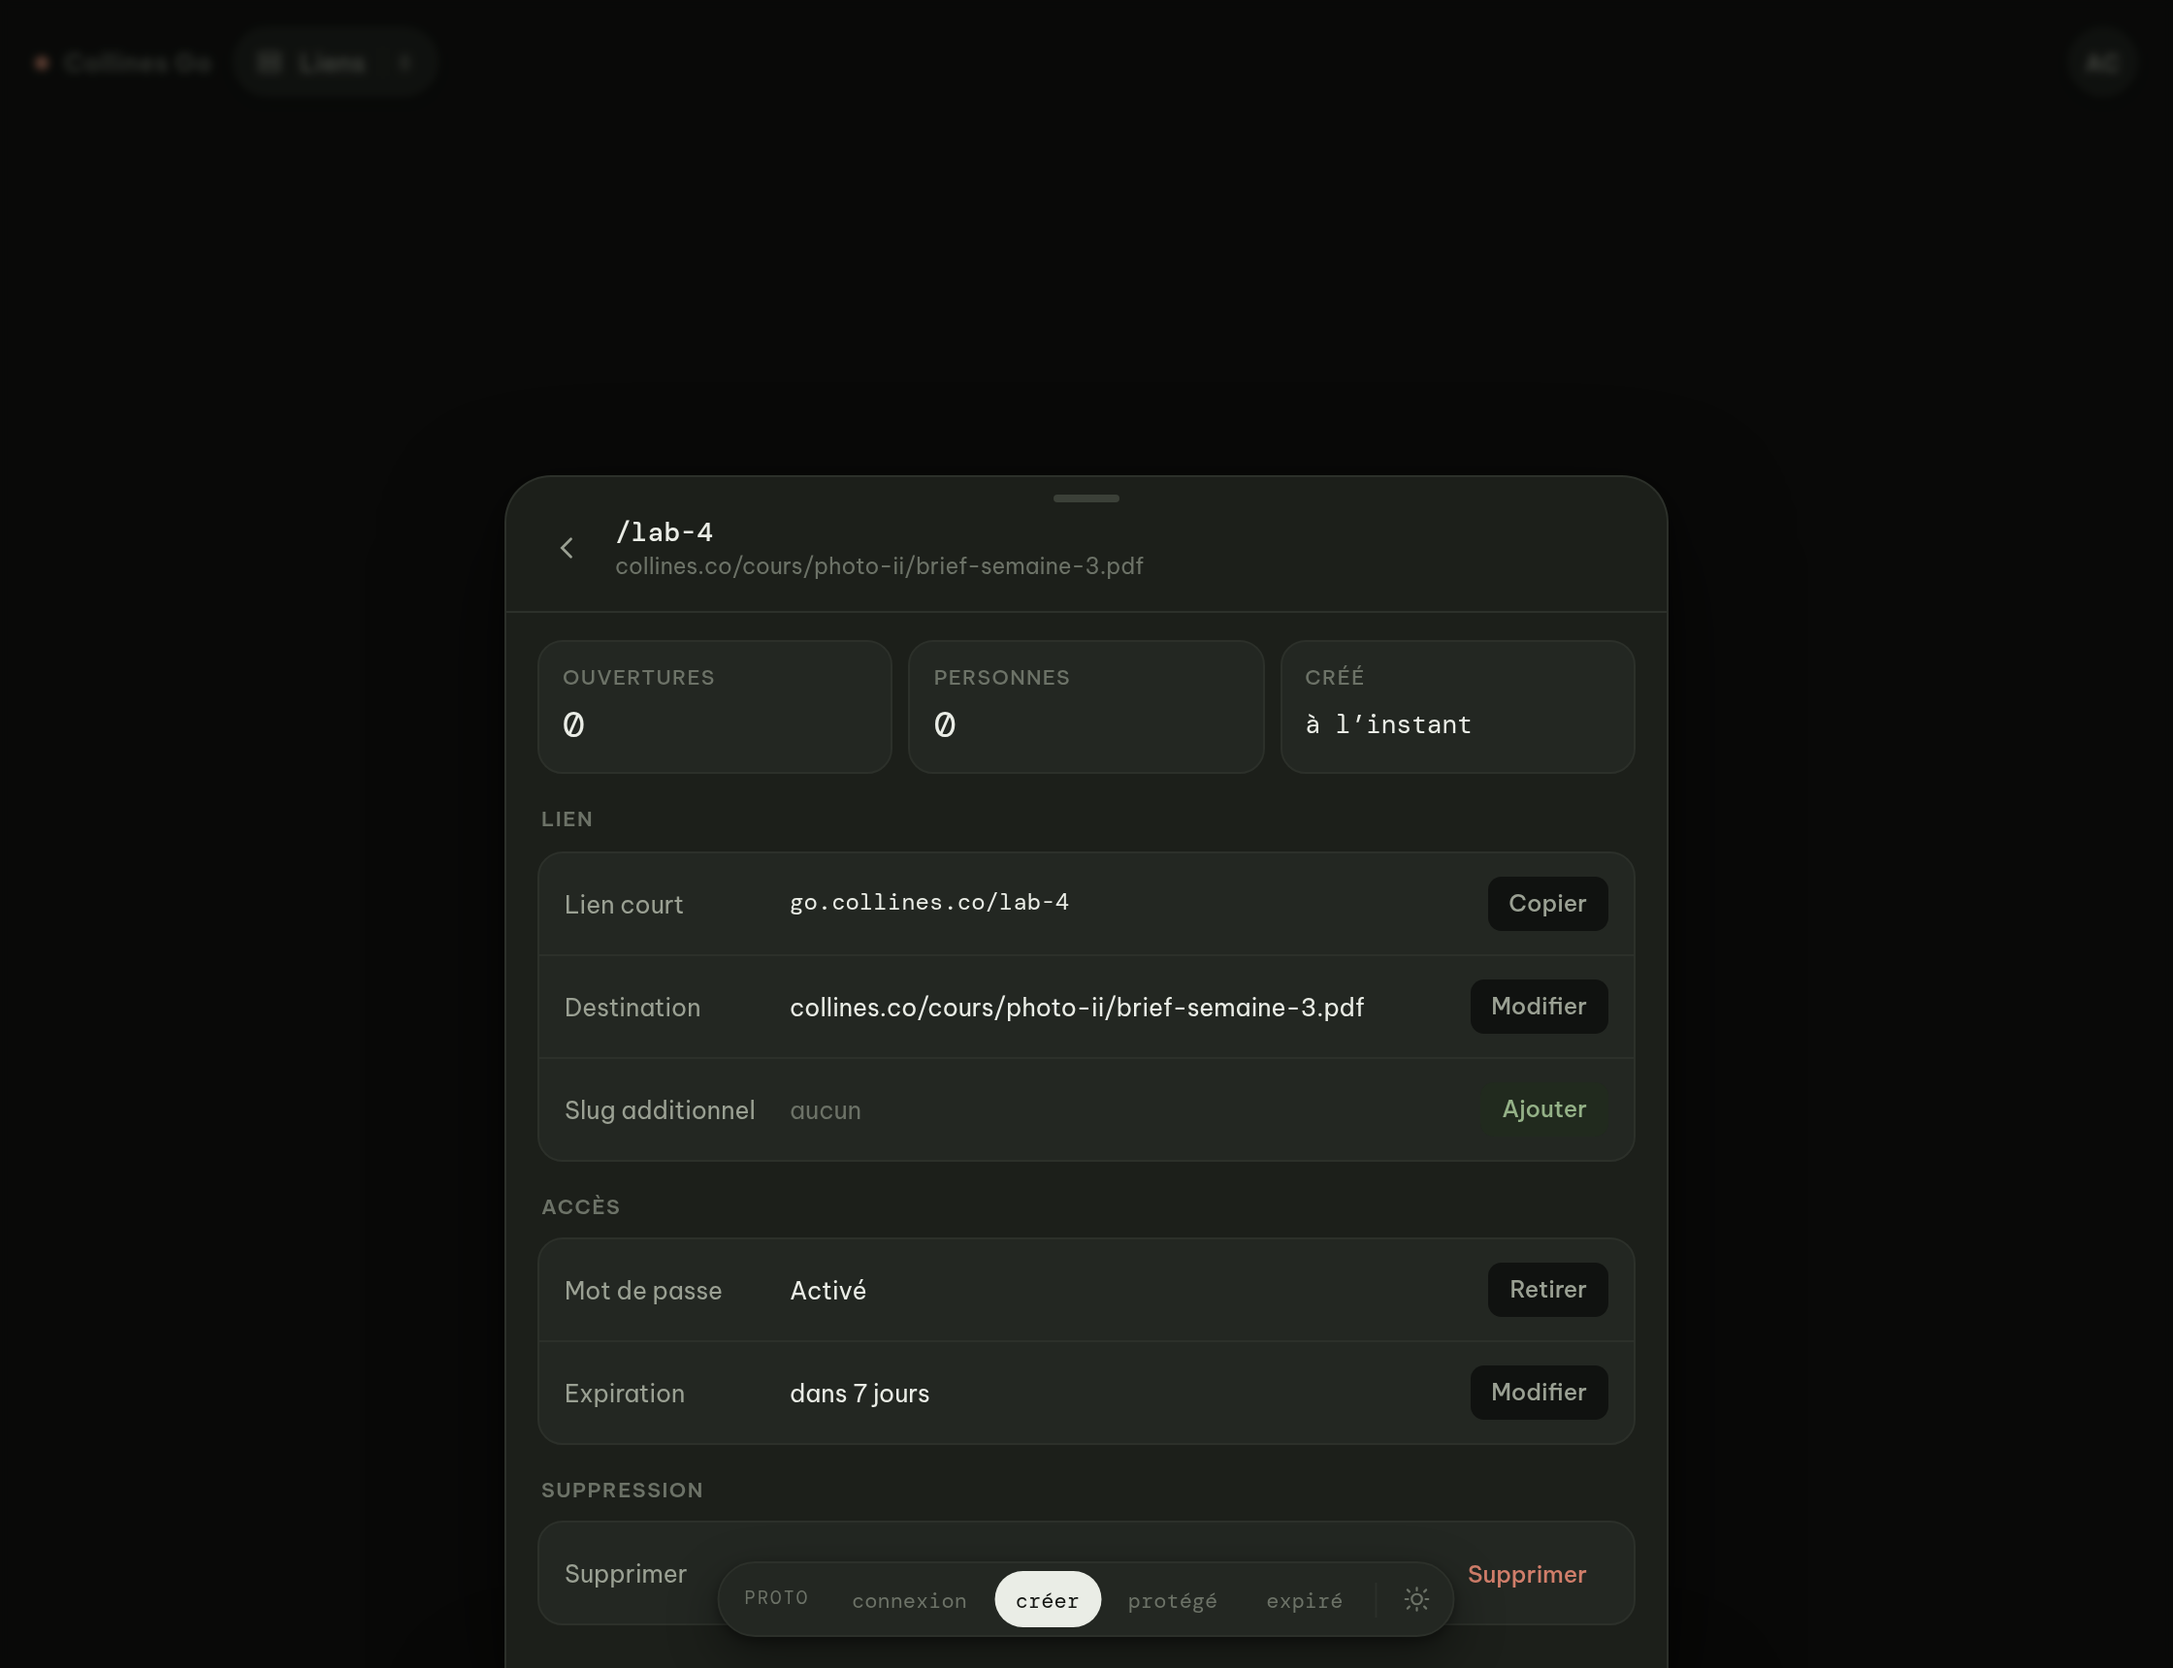
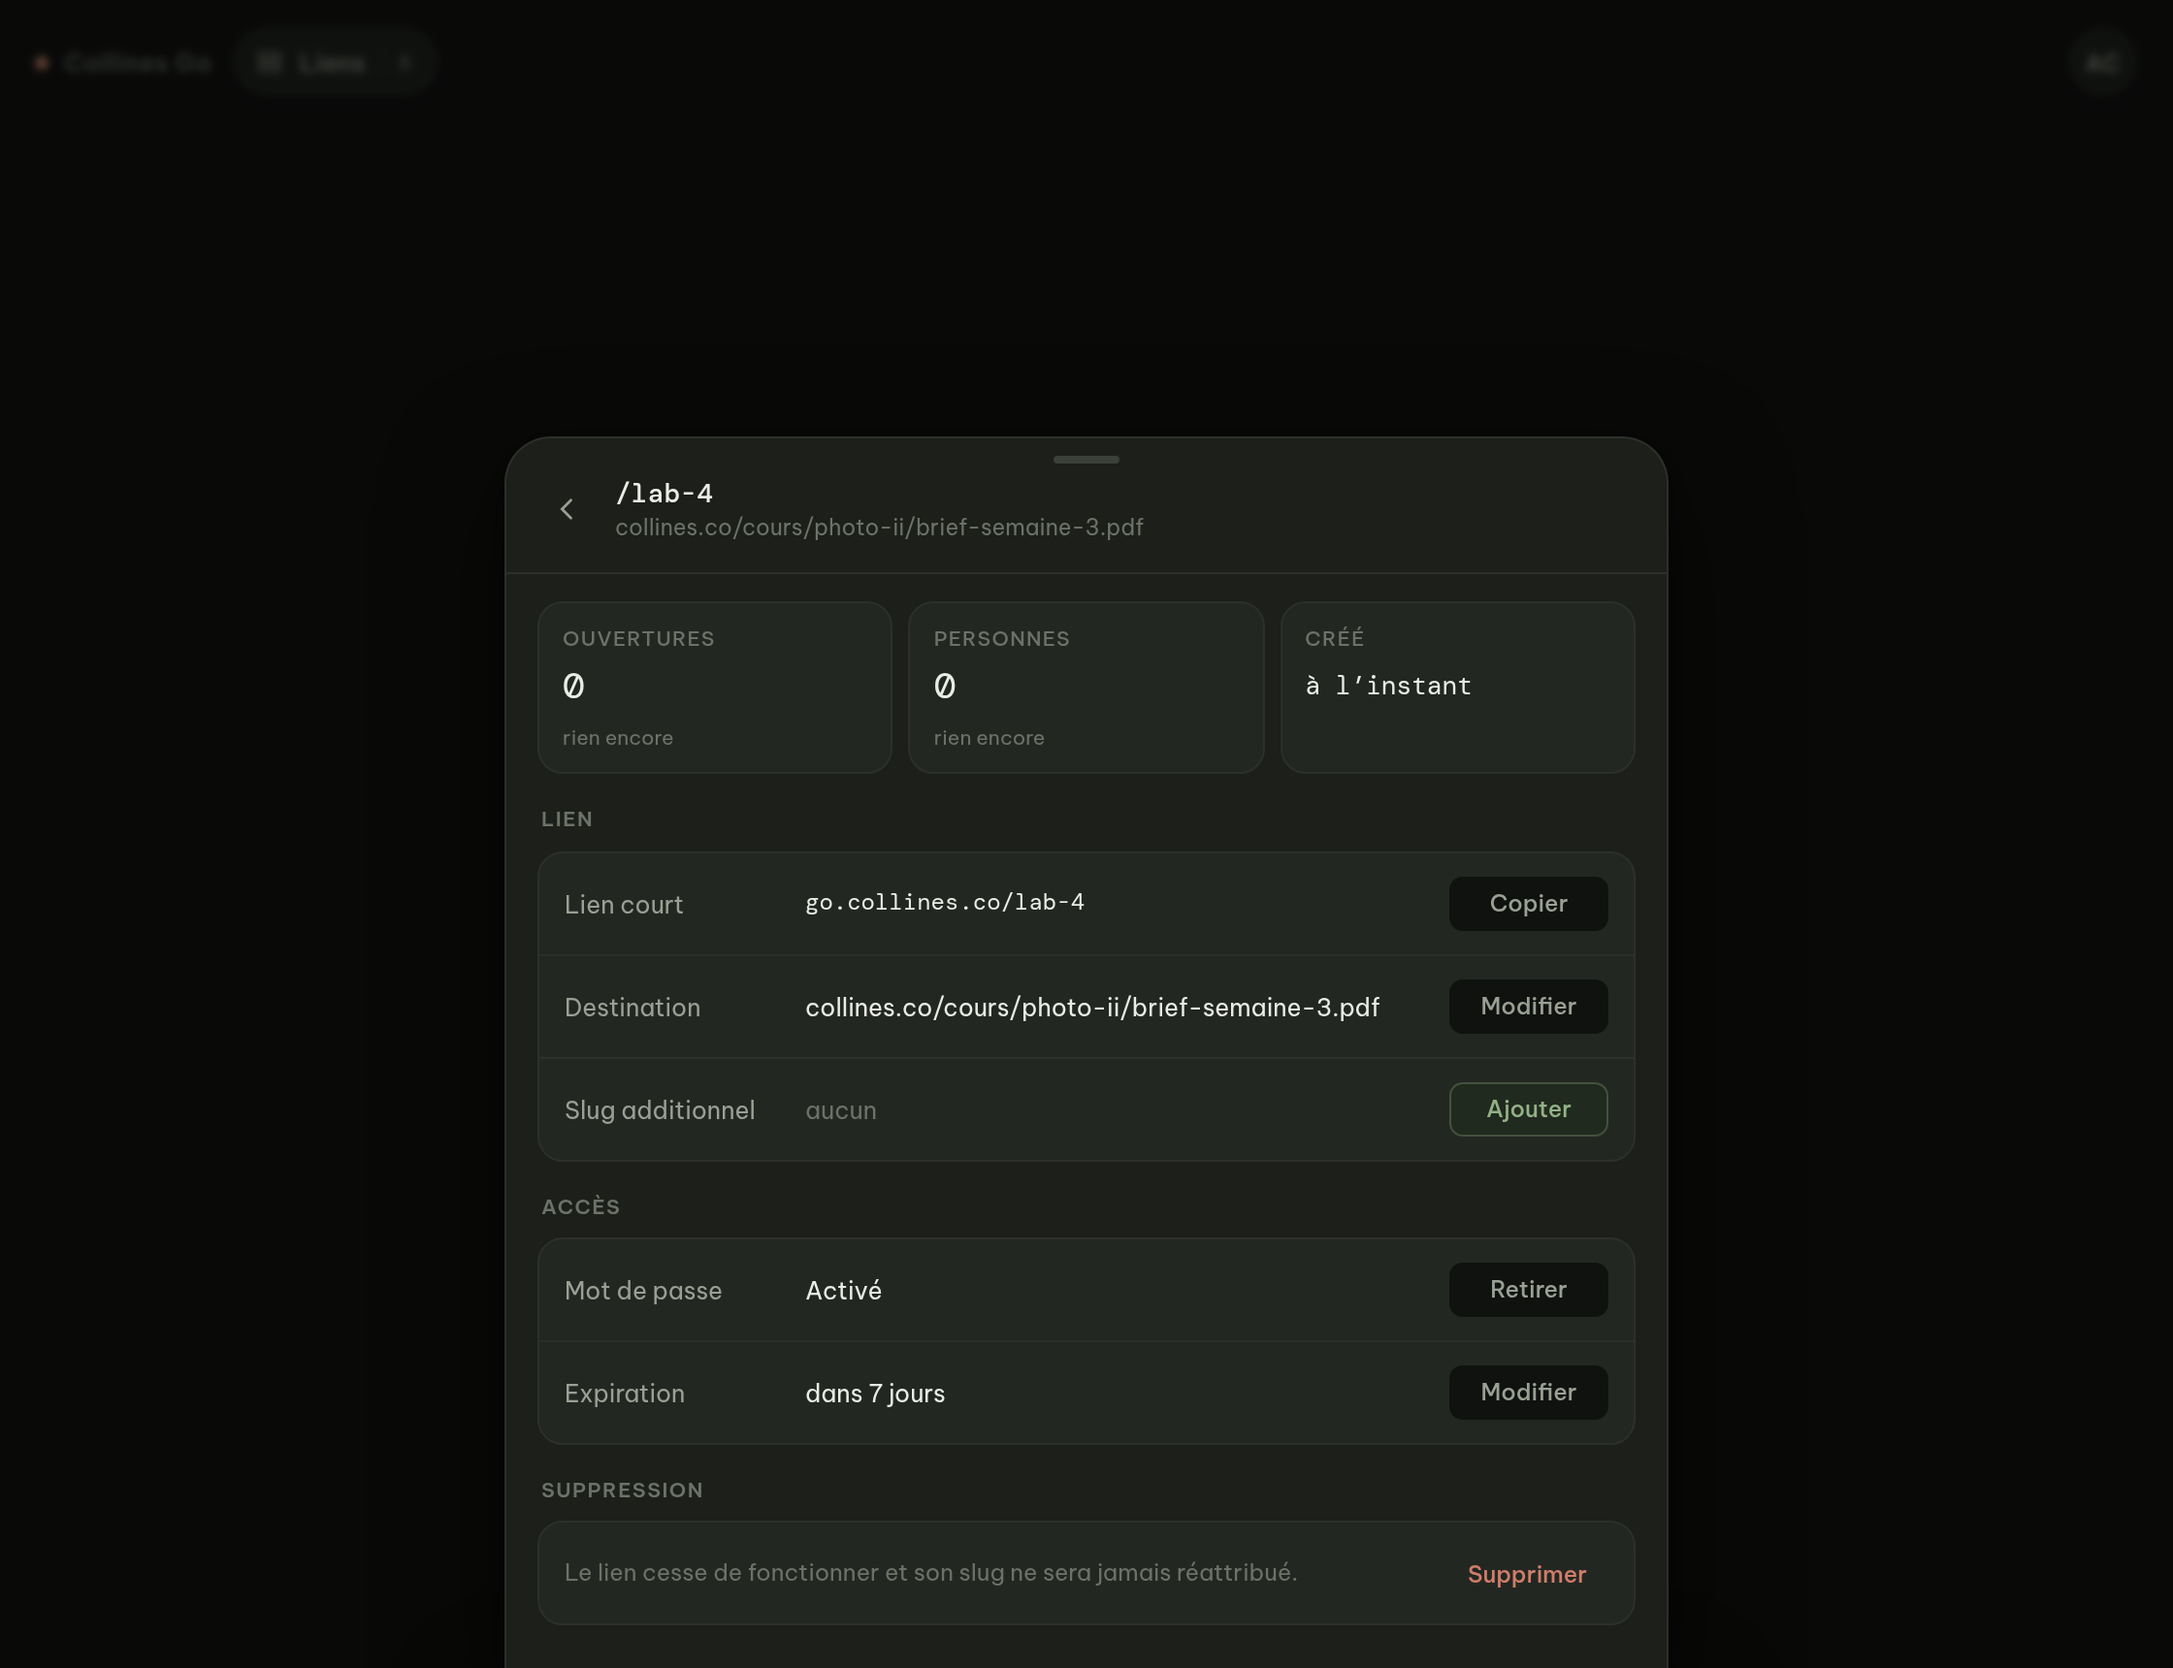
Tidy the link detail sheet
The rows were a flex row with a fixed 104px label column, so on a phone the
short link, the destination and the delete explanation were all cut by the
ellipsis, and the action buttons sat at ragged widths.

- Rows are a grid now: label / value / action, with the actions sharing a
  minimum width so their edges line up. Under 520px the label stacks over the
  value and the action keeps the right edge, which ends the truncation.
- The delete row drops its label, which only repeated the button, and lets its
  explanation wrap.
- All three stat tiles carry a second line, so none of them reads as hollow.

Fixes the sheet clipping its own tail: .detail-body had flex:1, whose 0
flex-basis contributed nothing to the auto-height sheet, so the last section
fell outside the box with no way to scroll to it. flex:0 1 auto sizes the
sheet to its content and lets the body scroll once it hits max-height.

Also dims the prototype bar while a sheet is open — it sits above the scrim
and was covering the last row — and gives the accent action a hairline so it
stays visible on dark, where its tint is nearly the surface colour.

Claude-Session: https://claude.ai/code/session_013QjXYmVZoySZmP3iZZXnxN

diff --git a/design/prototype.html b/design/prototype.html
@@ -592,27 +592,33 @@ input:focus{outline:none;}
 .detail-head .t{min-width:0;}
 .detail-head .t .s{display:block;font-family:var(--mono);font-size:14px;font-weight:500;}
 .detail-head .t .d{display:block;font-size:11.5px;color:var(--ink-3);white-space:nowrap;overflow:hidden;text-overflow:ellipsis;}
-.detail-body{flex:1;min-height:0;overflow-y:auto;overscroll-behavior:contain;padding:14px 16px 22px;display:flex;flex-direction:column;gap:14px;}
+.detail-body{flex:0 1 auto;min-height:0;overflow-y:auto;overscroll-behavior:contain;padding:14px 16px 22px;display:flex;flex-direction:column;gap:14px;}
 .stats-strip{display:grid;grid-template-columns:repeat(3,1fr);gap:8px;}
 .stat-tile{background:var(--raised);border:1px solid var(--line);border-radius:var(--r-m);padding:11px 12px;overflow:hidden;}
 .stat-tile .k{font-size:10.5px;font-weight:500;letter-spacing:.06em;text-transform:uppercase;color:var(--ink-3);}
 .stat-tile .v{font-family:var(--mono);font-size:19px;margin-top:3px;letter-spacing:-.02em;font-variant-numeric:tabular-nums;}
 .stat-tile .v.sm{font-size:13.5px;padding-top:4px;}
 .stat-tile .chart{display:block;margin-top:6px;color:var(--clay);}
+.stat-tile .sub{display:block;font-size:10.5px;color:var(--ink-3);margin-top:6px;line-height:1.3;}
 .sec{background:var(--raised);border:1px solid var(--line);border-radius:var(--r-m);overflow:hidden;}
-.sec-row{display:flex;align-items:center;gap:12px;padding:12px 13px;}
+.sec-row{
+  display:grid;grid-template-columns:112px minmax(0,1fr) auto;
+  align-items:center;gap:12px;padding:12px 13px;
+}
+.sec-row.wide{grid-template-columns:minmax(0,1fr) auto;}
 .sec-row + .sec-row{border-top:1px solid var(--line);}
-.sec-row .k{font-size:12.5px;color:var(--ink-2);flex:none;width:104px;}
-.sec-row .v{flex:1;min-width:0;font-size:12.5px;white-space:nowrap;overflow:hidden;text-overflow:ellipsis;}
+.sec-row .k{font-size:12.5px;color:var(--ink-2);}
+.sec-row .v{min-width:0;font-size:12.5px;white-space:nowrap;overflow:hidden;text-overflow:ellipsis;}
+.sec-row.wide .v{white-space:normal;font-size:12px;color:var(--ink-3);line-height:1.4;}
 .sec-row .v.mono{font-family:var(--mono);font-size:12px;}
 .mini{
-  flex:none;height:28px;padding:0 11px;border-radius:7px;
+  height:28px;min-width:82px;padding:0 11px;border-radius:7px;
   font-size:12px;font-weight:500;background:var(--sunken);color:var(--ink-2);
   transition:background var(--t-fast) var(--ease), color var(--t-fast) var(--ease);
 }
 .mini:hover{background:var(--line);color:var(--ink);}
-.mini.accent{background:var(--moss-tint);color:var(--moss);}
-.mini.accent:hover{background:var(--moss);color:var(--on-accent);}
+.mini.accent{background:var(--moss-tint);color:var(--moss);box-shadow:inset 0 0 0 1px rgba(var(--moss-glow),.3);}
+.mini.accent:hover{background:var(--moss);color:var(--on-accent);box-shadow:none;}
 .mini.warn{background:transparent;color:var(--danger);}
 .mini.warn:hover{background:rgba(166,80,63,.12);}
 .sec-title{font-size:10.5px;font-weight:600;letter-spacing:.07em;text-transform:uppercase;color:var(--ink-3);margin:2px 0 -6px 2px;}
@@ -697,6 +703,8 @@ input:focus{outline:none;}
 .proto button.sel{background:var(--ink);color:var(--ground);}
 .proto .sep{width:1px;height:18px;background:var(--line);flex:none;margin:0 3px;}
 .proto .theme{width:29px;padding:0;display:grid;place-items:center;}
+.proto{transition:opacity var(--t-mid) var(--ease), transform var(--t-mid) var(--ease);}
+.proto.dim{opacity:0;pointer-events:none;transform:translateX(-50%) translateY(12px);}
 
 .qr-full{
   position:fixed;inset:0;z-index:70;background:#FFFFFF;
@@ -713,9 +721,16 @@ input:focus{outline:none;}
 @media (max-width:520px){
   #app{padding:16px;padding-bottom:88px;}
   .stage{border-radius:var(--r-l);}
-  .sheet{height:86dvh;}
+  .sheet:not(.auto){height:86dvh;}
   .filters button{padding:0 9px;}
   .search{gap:6px;}
+  .sec-row{grid-template-columns:minmax(0,1fr) auto;gap:2px 10px;}
+  .sec-row .k{grid-column:1;grid-row:1;font-size:11.5px;color:var(--ink-3);}
+  .sec-row .v{grid-column:1;grid-row:2;}
+  .sec-row .mini{grid-column:2;grid-row:1 / span 2;}
+  .sec-row.wide{grid-template-columns:minmax(0,1fr) auto;}
+  .sec-row.wide .v{grid-column:1;grid-row:1;}
+  .sec-row.wide .mini{grid-row:1;}
 }
 @media (max-height:660px){ .proto{bottom:10px;} }
 </style>
@@ -1306,13 +1321,13 @@ $('#themeBtn').addEventListener('click', () => {
    DONNÉES DE DÉMONSTRATION
    ============================================================ */
 const LINKS = [
-  { slug:'tp-3',   dest:'https://collines.co/tp/securite-labo',                     clicks:212, uniq:168, created:'12 août',  expires:'dans 2 jours',  expired:false, pass:true,  series:[4,12,38,64,52,30,12] },
-  { slug:'x7kq2',  dest:'https://collines.co/cours/photo-ii/brief-semaine-3.pdf',   clicks:128, uniq:96,  created:'18 août',  expires:'dans 5 jours',  expired:false, pass:false, series:[2,8,22,41,28,17,10] },
-  { slug:'t8jrc',  dest:'https://collines.co/syllabus-2026.pdf',                    clicks:301, uniq:214, created:'2 sept.',  expires:'jamais',        expired:false, pass:false, series:[30,44,38,52,41,49,47] },
-  { slug:'m4rvp',  dest:'https://drive.google.com/file/d/diapos-critique-semaine-2',clicks:64,  uniq:51,  created:'9 août',   expires:'jamais',        expired:false, pass:false, series:[9,14,11,8,6,10,6] },
-  { slug:'k9wht',  dest:'https://youtube.com/watch?v=le-systeme-des-zones',         clicks:47,  uniq:39,  created:'5 août',   expires:'jamais',        expired:false, pass:false, series:[3,7,9,12,6,5,5] },
-  { slug:'q2fnd',  dest:'https://forms.collines.co/photo-ii-retour',                clicks:89,  uniq:77,  created:'28 juil.', expires:'il y a 3 jours',expired:true,  pass:false, series:[18,26,21,14,7,3,0] },
-  { slug:'b5xmq',  dest:'https://collines.co/cours/photo-ii/inscription-labo',      clicks:18,  uniq:16,  created:'19 juil.', expires:'il y a 12 jours',expired:true, pass:true,  series:[6,5,4,2,1,0,0] }
+  { slug:'tp-3',   dest:'https://collines.co/tp/securite-labo',                     clicks:212, uniq:168, created:'12 août', age:'il y a 9 jours',  expires:'dans 2 jours',  expired:false, pass:true,  series:[4,12,38,64,52,30,12] },
+  { slug:'x7kq2',  dest:'https://collines.co/cours/photo-ii/brief-semaine-3.pdf',   clicks:128, uniq:96,  created:'18 août', age:'il y a 3 jours',  expires:'dans 5 jours',  expired:false, pass:false, series:[2,8,22,41,28,17,10] },
+  { slug:'t8jrc',  dest:'https://collines.co/syllabus-2026.pdf',                    clicks:301, uniq:214, created:'2 sept.', age:'hier',  expires:'jamais',        expired:false, pass:false, series:[30,44,38,52,41,49,47] },
+  { slug:'m4rvp',  dest:'https://drive.google.com/file/d/diapos-critique-semaine-2',clicks:64,  uniq:51,  created:'9 août', age:'il y a 12 jours',   expires:'jamais',        expired:false, pass:false, series:[9,14,11,8,6,10,6] },
+  { slug:'k9wht',  dest:'https://youtube.com/watch?v=le-systeme-des-zones',         clicks:47,  uniq:39,  created:'5 août', age:'il y a 16 jours',   expires:'jamais',        expired:false, pass:false, series:[3,7,9,12,6,5,5] },
+  { slug:'q2fnd',  dest:'https://forms.collines.co/photo-ii-retour',                clicks:89,  uniq:77,  created:'28 juil.', age:'il y a 24 jours', expires:'il y a 3 jours',expired:true,  pass:false, series:[18,26,21,14,7,3,0] },
+  { slug:'b5xmq',  dest:'https://collines.co/cours/photo-ii/inscription-labo',      clicks:18,  uniq:16,  created:'19 juil.', age:'il y a 33 jours', expires:'il y a 12 jours',expired:true, pass:true,  series:[6,5,4,2,1,0,0] }
 ];
 const takenSlugs = () => new Set(LINKS.map(l=>l.slug).concat(RESERVED));
 
@@ -1660,7 +1675,7 @@ async function shorten(){
   const slug = S.slug || randCode();
   currentSlug = slug;
   LINKS.unshift({
-    slug, dest:S.url, pass:!!S.pass, clicks:0, uniq:0, created:'à l’instant',
+    slug, dest:S.url, pass:!!S.pass, clicks:0, uniq:0, created:'à l’instant', age:'',
     expires:S.exp ? S.exp.label : 'jamais', expired:false, series:[0,0,0,0,0,0,0]
   });
   S.phase = 'result';
@@ -1816,10 +1831,16 @@ function buildDetail(slug){
     <div class="stats-strip">
       <div class="stat-tile">
         <div class="k">Ouvertures</div><div class="v">${l.clicks}</div>
-        ${l.clicks ? sparkArea(l.series, 100, 20) : ''}
+        ${l.clicks ? sparkArea(l.series, 100, 20) : '<span class="sub">rien encore</span>'}
       </div>
-      <div class="stat-tile"><div class="k">Personnes</div><div class="v">${l.uniq}</div></div>
-      <div class="stat-tile"><div class="k">Créé</div><div class="v sm">${l.created}</div></div>
+      <div class="stat-tile">
+        <div class="k">Personnes</div><div class="v">${l.uniq}</div>
+        <span class="sub">${l.clicks ? Math.round(l.uniq/l.clicks*100)+' % du total' : 'rien encore'}</span>
+      </div>
+      <div class="stat-tile">
+        <div class="k">Créé</div><div class="v sm">${l.created}</div>
+        ${l.age ? '<span class="sub">'+l.age+'</span>' : ''}
+      </div>
     </div>
     <div class="sec-title">Lien</div>
     <div class="sec">
@@ -1835,7 +1856,7 @@ function buildDetail(slug){
     </div>
     <div class="sec-title">Suppression</div>
     <div class="sec">
-      <div class="sec-row"><span class="k">Supprimer</span><span class="v" style="color:var(--ink-3);font-size:11.5px">Le slug ne sera jamais réattribué.</span>
+      <div class="sec-row wide"><span class="v">Le lien cesse de fonctionner et son slug ne sera jamais réattribué.</span>
         <button class="mini warn" data-d="del">Supprimer</button></div>
     </div>`;
   $('#detailBody').querySelectorAll('[data-d]').forEach(b => b.addEventListener('click', () => {
@@ -1849,8 +1870,12 @@ function buildDetail(slug){
   return true;
 }
 
+const protoBar = document.querySelector('.proto');
+const dimProto = on => protoBar.classList.toggle('dim', on);
+
 function openDash(){
   renderRows();
+  dimProto(true);
   scrim.classList.add('on');
   detailSheet.classList.remove('on');
   sheet.classList.add('on');
@@ -1861,6 +1886,7 @@ function openDetail(slug, from){
   detailFrom = from;
   $('#detailBackIcon').setAttribute('href', from==='list' ? '#i-back' : '#i-x');
   $('#detailBack').setAttribute('aria-label', from==='list' ? 'Retour aux liens' : 'Fermer');
+  dimProto(true);
   scrim.classList.add('on');
   if(sheet.classList.contains('on')){
     sheet.classList.remove('on');
@@ -1876,12 +1902,14 @@ function backFromDetail(){
     setTimeout(() => sheet.classList.add('on'), 150);
   }else{
     scrim.classList.remove('on');
+    dimProto(false);
   }
 }
 function closeSheets(){
   sheet.classList.remove('on');
   detailSheet.classList.remove('on');
   scrim.classList.remove('on');
+  dimProto(false);
 }
 $('#dashBtn').addEventListener('click', openDash);
 $('#sheetClose').addEventListener('click', closeSheets);
